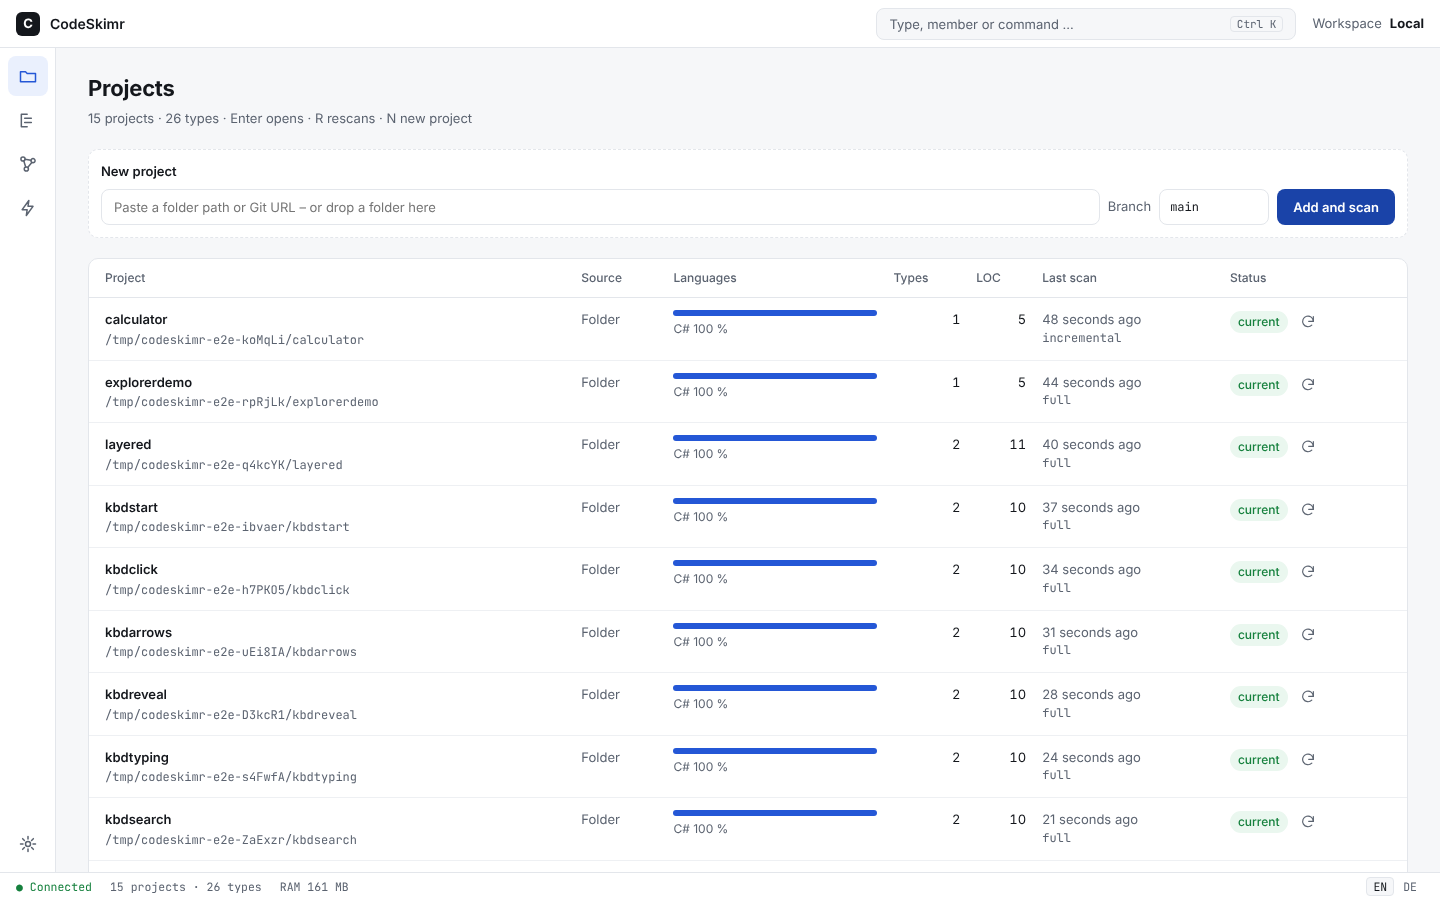
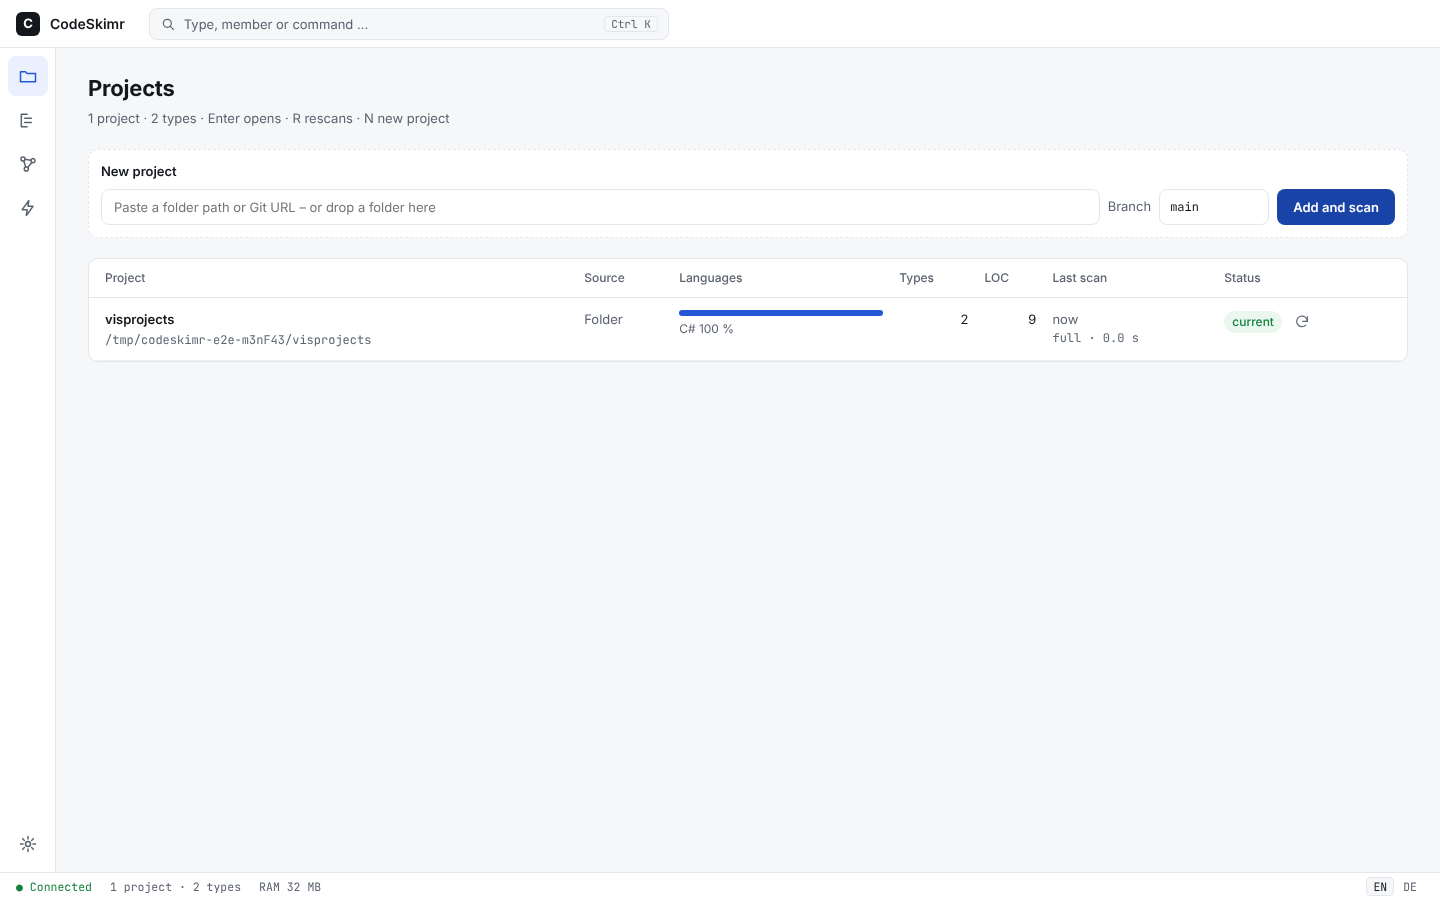
fix: Kopfleiste mit Projekt-Breadcrumb, Branch-Chip und Suchfeld wie im Mock (#194)
<!-- claude-projects-attribution: {"github_login":"stacknoise"} -->
_Requested by **Anton** · [project
thread](https://claude.ai/code/project/chan_01BurfeyeHWcU615RsoB5poQ?thread=cmsg_01BurfeyeHWcU615RsoB5poQLRyBR7cRC2JCzmYBjFR1NA)_

## Was ändert sich und warum?

Closes #167 (Kopfleiste). Die Kopfleiste entspricht jetzt dem Mock:

- Nach Logo und Produktname steht, sobald ein Projekt offen ist, ein
Schrägstrich und der Projektname (Link zur Projektübersicht), dann ein
Chip mit Branch-Symbol: bei einer Git-Quelle der Branch, bei einem
Ordner „Arbeitsordner", jeweils mit dem Alter des letzten Scans („vor 1
Sekunde").
- Das Suchfeld sitzt links neben dem Chip, hat ein Lupensymbol und ist
wie im Mock höchstens 520 px breit.
- „Arbeitsbereich Lokal" rechts entfällt. Der HTML-Export nutzt dieselbe
Leiste mit Projektname (ohne Chip).
- Test `ProjectCrumb.test.tsx`; die Visual- und Tastaturtests (alle 34
e2e) laufen grün, die Screenshots in `docs/screenshots/visual/` sind neu
erzeugt. `docs/ui.md` beschreibt die Leiste.
- **Nicht in diesem PR:** Der zweite Teil von #167 (Statusleiste mit
Beobachtungsstatus, Referenz-Index, letzter Abfrage) braucht neue
Messwerte vom Server. Dafür gibt es das Folge-Issue #193.

## So probierst du es aus

```
cd web && npm ci && npx vite build
npm run lint && npm test
CODESKIMR_CHROMIUM=<Chromium> npm run e2e
```

## Screenshots (bei UI-Änderungen, mit Mock-Vergleich)

`docs/screenshots/visual/` (alle Hell, 1440 × 900); Beispiel:
[…]

diff --git a/web/src/app/Frame.tsx b/web/src/app/Frame.tsx
@@ -1,9 +1,10 @@
+import { Show, type JSX } from "solid-js";
 import { SearchField } from "../features/search/SearchField";
 import { t } from "../shared/i18n/i18n";
 import { I18N_KEYS } from "../shared/i18n/keys";
 import { cx } from "../shared/ui/cx";
 import { Icon } from "../shared/ui/Icon";
-import { CURRENT_PAGE, LOGO_LETTER, type Route } from "./consts";
+import { BREADCRUMB_SLASH, CURRENT_PAGE, LOGO_LETTER, type Route } from "./consts";
 import styles from "./App.module.css";
 import { currentPath, hrefOf, navigate } from "./router";
 
@@ -25,19 +26,43 @@ export function RailLink(props: { route: Route }) {
   );
 }
 
-/** The top bar of every screen: name, quick search and the workspace (blueprint 15.2). */
-export function TopBar(props: { workspace: string; name: string }) {
+/** The top bar of every screen: name, what the screen belongs to (`children`, see `Crumb`) and
+ * the quick search (blueprint 15.2). */
+export function TopBar(props: { children?: JSX.Element }) {
   return (
     <header class={styles.top}>
       <div class={styles.brand}>
         <span class={styles.logo}>{LOGO_LETTER}</span>
         <span class={styles.name}>{t(I18N_KEYS.APP_NAME)}</span>
       </div>
+      {props.children}
       <SearchField />
-      <div class={styles.workspace}>
-        <span>{props.workspace}</span>
-        <b>{props.name}</b>
-      </div>
     </header>
+  );
+}
+
+/** The project in the top bar: a slash and the name, a link to the projects when `href` is
+ * given. */
+export function Crumb(props: { name: string; href?: string }) {
+  return (
+    <>
+      <span class={styles.slash} aria-hidden={true}>
+        {BREADCRUMB_SLASH}
+      </span>
+      <Show when={props.href} fallback={<b class={styles.crumb}>{props.name}</b>}>
+        {(href) => (
+          <a
+            class={styles.crumb}
+            href={hrefOf(href())}
+            onClick={(event) => {
+              event.preventDefault();
+              navigate(href());
+            }}
+          >
+            {props.name}
+          </a>
+        )}
+      </Show>
+    </>
   );
 }

diff --git a/web/src/app/ProjectCrumb.test.tsx b/web/src/app/ProjectCrumb.test.tsx
@@ -1,0 +1,65 @@
+import { render, screen } from "@solidjs/testing-library";
+import { describe, expect, it } from "vitest";
+import { refreshProjects } from "../features/projects/projects";
+import type { ProjectRow } from "../features/projects/types";
+import { SESSION_PATH } from "../shared/api/consts";
+import { setLanguage } from "../shared/i18n/i18n";
+import { openProject } from "../shared/project/active";
+import { startSession } from "../shared/session/session";
+import { answer, serve, useServerSession } from "../tests/commands";
+import { TopBar } from "./Frame";
+import { ProjectCrumb } from "./ProjectCrumb";
+
+const FOLDER: ProjectRow = {
+  id: 7,
+  name: "shop",
+  kind: "folder",
+  location: "/work/shop",
+  branch: null,
+  commit: null,
+  scan: null,
+  types: 0,
+  loc: 0,
+  languages: [],
+  running: false,
+};
+const GIT: ProjectRow = {
+  ...FOLDER,
+  id: 8,
+  name: "api",
+  kind: "git",
+  branch: "release/2",
+};
+
+useServerSession();
+
+async function shown(id: number) {
+  serve({
+    [SESSION_PATH]: () => answer({}),
+    "projects.list": () => answer([FOLDER, GIT]),
+  });
+  await startSession();
+  await refreshProjects();
+  openProject(id);
+  return render(() => (
+    <TopBar>
+      <ProjectCrumb />
+    </TopBar>
+  ));
+}
+
+describe("ProjectCrumb", () => {
+  it("names the project and the working folder of a folder source", async () => {
+    setLanguage("en");
+    await shown(7);
+    expect(screen.getByRole("link", { name: "shop" })).toHaveAttribute("href", "/");
+    expect(screen.getByText("Working folder")).toBeInTheDocument();
+  });
+
+  it("names the branch of a Git source", async () => {
+    setLanguage("en");
+    await shown(8);
+    expect(screen.getByRole("link", { name: "api" })).toBeInTheDocument();
+    expect(screen.getByText("release/2")).toBeInTheDocument();
+  });
+});

diff --git a/web/src/app/ProjectCrumb.tsx b/web/src/app/ProjectCrumb.tsx
@@ -1,0 +1,44 @@
+import { Show } from "solid-js";
+import { currentLanguage, t } from "../shared/i18n/i18n";
+import { I18N_KEYS } from "../shared/i18n/keys";
+import { activeProject } from "../shared/project/active";
+import { ICON_BRANCH, ICON_SIZE_SMALL } from "../shared/ui/consts";
+import { Icon } from "../shared/ui/Icon";
+import { ago } from "../features/projects/format";
+import { SOURCE_KIND } from "../features/projects/consts";
+import { projects } from "../features/projects/projects";
+import type { ProjectRow } from "../features/projects/types";
+import { CHIP_SEPARATOR, PROJECTS_ROUTE } from "./consts";
+import { Crumb } from "./Frame";
+import styles from "./App.module.css";
+
+/** What the chip says: the branch of a Git source, or the working folder, and how old the
+ * newest scan is. */
+function chipText(project: ProjectRow): string {
+  const source =
+    project.kind === SOURCE_KIND.git && project.branch
+      ? project.branch
+      : t(I18N_KEYS.APP_CHIP_FOLDER);
+  return project.scan
+    ? `${source}${CHIP_SEPARATOR}${ago(project.scan.created, Date.now(), currentLanguage())}`
+    : source;
+}
+
+/** The project that the screens work on, as the top bar shows it: breadcrumb and chip
+ * (blueprint 15.2). Nothing is shown until a project is open. */
+export function ProjectCrumb() {
+  const project = () => projects().find((row) => row.id === activeProject());
+  return (
+    <Show when={project()}>
+      {(row) => (
+        <>
+          <Crumb name={row().name} href={PROJECTS_ROUTE.path} />
+          <span class={styles.chip}>
+            <Icon name={ICON_BRANCH} size={ICON_SIZE_SMALL} />
+            {chipText(row())}
+          </span>
+        </>
+      )}
+    </Show>
+  );
+}

diff --git a/web/src/shared/ui/consts.ts b/web/src/shared/ui/consts.ts
@@ -1,6 +1,12 @@
 /** Drawing of an icon: a 24 by 24 grid, strokes only (blueprint 15.2). */
 export const ICON_VIEW_BOX = "0 0 24 24";
 export const ICON_SIZE = 20;
+/** Icons that the top bar names. */
+export const ICON_SEARCH = "search";
+export const ICON_BRANCH = "branch";
+/** Sizes of the small icons of the top bar. */
+export const ICON_SIZE_SMALL = 13;
+export const ICON_SIZE_MEDIUM = 16;
 export const ICON_STROKE = "currentColor";
 export const ICON_STROKE_WIDTH = 1.8;
 export const ICON_NONE = "none";
@@ -20,6 +26,13 @@ export const ICON_PATHS = {
     "M8.4 6.4l7.2 1.2M7 8.3l2.2 7.4M16.6 10.2l-5 6",
   ],
   scan: ["M13 3L5 14h6l-1 7 8-11h-6z"],
+  search: ["M11 5a6 6 0 1 0 0 12 6 6 0 0 0 0-12z", "M20 20l-4.5-4.5"],
+  branch: [
+    "M4 5a2 2 0 1 0 4 0 2 2 0 1 0-4 0",
+    "M4 19a2 2 0 1 0 4 0 2 2 0 1 0-4 0",
+    "M16 7a2 2 0 1 0 4 0 2 2 0 1 0-4 0",
+    "M6 7v10M18 9c0 5-12 3-12 8",
+  ],
   settings: [
     "M12 9a3 3 0 1 0 0 6 3 3 0 0 0 0-6z",
     "M12 3v3M12 18v3M3 12h3M18 12h3M5.6 5.6l2.1 2.1M16.3 16.3l2.1 2.1M18.4 5.6l-2.1 2.1M7.7 16.3l-2.1 2.1",

diff --git a/web/src/export/ExportApp.tsx b/web/src/export/ExportApp.tsx
@@ -11,7 +11,7 @@ import { cx } from "../shared/ui/cx";
 import { EXPLORER_ROUTE, FLUSH_PATHS, GRAPH_ROUTE, USAGES_ROUTE, type Route } from "../app/consts";
 import appStyles from "../app/App.module.css";
 import { BANNER_SEPARATOR, MS_PER_SECOND, SHORT_COMMIT } from "./consts";
-import { RailLink, TopBar } from "../app/Frame";
+import { Crumb, RailLink, TopBar } from "../app/Frame";
 import { currentPath } from "./router";
 import type { ExportData } from "./types";
 import styles from "./ExportApp.module.css";
@@ -74,7 +74,9 @@ export function ExportApp(props: { data: ExportData }) {
   useSearchShortcut(openSearch);
   return (
     <div class={appStyles.root}>
-      <TopBar workspace={t(I18N_KEYS.EXPORT_NAV_LABEL)} name={props.data.project.name} />
+      <TopBar>
+        <Crumb name={props.data.project.name} />
+      </TopBar>
       <Banner data={props.data} />
       <div class={appStyles.body}>
         <nav class={appStyles.rail} aria-label={t(I18N_KEYS.NAV_LABEL)}>

diff --git a/web/src/features/search/SearchField.tsx b/web/src/features/search/SearchField.tsx
@@ -1,5 +1,7 @@
 import { t } from "../../shared/i18n/i18n";
 import { I18N_KEYS } from "../../shared/i18n/keys";
+import { ICON_SEARCH, ICON_SIZE_MEDIUM } from "../../shared/ui/consts";
+import { Icon } from "../../shared/ui/Icon";
 import { openSearch } from "./search";
 import styles from "./SearchField.module.css";
 
@@ -7,7 +9,8 @@ import styles from "./SearchField.module.css";
 export function SearchField() {
   return (
     <button type="button" class={styles.search} onClick={openSearch}>
-      <span>{t(I18N_KEYS.APP_SEARCH_PLACEHOLDER)}</span>
+      <Icon name={ICON_SEARCH} size={ICON_SIZE_MEDIUM} />
+      <span class={styles.hint}>{t(I18N_KEYS.APP_SEARCH_PLACEHOLDER)}</span>
       <kbd>{t(I18N_KEYS.APP_SEARCH_SHORTCUT)}</kbd>
     </button>
   );

diff --git a/web/src/app/App.tsx b/web/src/app/App.tsx
@@ -28,6 +28,7 @@ import {
 } from "./consts";
 import styles from "./App.module.css";
 import { RailLink, TopBar } from "./Frame";
+import { ProjectCrumb } from "./ProjectCrumb";
 import { currentPath } from "./router";
 
 /** The screen of the current path. */
@@ -63,7 +64,9 @@ export function App() {
   });
   return (
     <div class={styles.root}>
-      <TopBar workspace={t(I18N_KEYS.APP_WORKSPACE)} name={t(I18N_KEYS.APP_WORKSPACE_LOCAL)} />
+      <TopBar>
+        <ProjectCrumb />
+      </TopBar>
       <div class={styles.body}>
         <nav class={styles.rail} aria-label={t(I18N_KEYS.NAV_LABEL)}>
           <For each={MAIN_ROUTES}>{(route) => <RailLink route={route} />}</For>

diff --git a/web/src/features/search/SearchField.module.css b/web/src/features/search/SearchField.module.css
@@ -1,12 +1,12 @@
 .search {
-    margin-left: auto;
-    flex: 0 1 420px;
+    margin-left: var(--space-8);
+    flex: 1 1 280px;
+    max-width: 520px;
     height: 32px;
     display: flex;
     align-items: center;
-    justify-content: space-between;
     gap: var(--space-8);
-    padding: 0 var(--space-12);
+    padding: 0 var(--space-10);
     border: 1px solid var(--line);
     border-radius: var(--radius-card);
     background: var(--bg);
@@ -20,4 +20,9 @@
     border: 1px solid var(--line);
     border-radius: var(--radius-badge);
     padding: 0 var(--space-6);
+}
+
+.hint {
+    flex: 1;
+    text-align: left;
 }

diff --git a/web/src/shared/ui/Icon.tsx b/web/src/shared/ui/Icon.tsx
@@ -14,11 +14,11 @@ export type IconName = keyof typeof ICON_PATHS;
 
 /** An icon of the rail. It is decoration: the text next to it, or the label of its button,
  * carries the meaning. */
-export function Icon(props: { name: IconName }) {
+export function Icon(props: { name: IconName; size?: number }) {
   return (
     <svg
-      width={ICON_SIZE}
-      height={ICON_SIZE}
+      width={props.size ?? ICON_SIZE}
+      height={props.size ?? ICON_SIZE}
       viewBox={ICON_VIEW_BOX}
       fill={ICON_NONE}
       stroke={ICON_STROKE}

diff --git a/web/src/app/App.module.css b/web/src/app/App.module.css
@@ -39,14 +39,24 @@
     font-size: 14px;
 }
 
-.workspace {
-    display: flex;
-    gap: var(--space-8);
-    color: var(--muted);
+.slash {
+    color: var(--line-strong);
 }
 
-.workspace b {
+.crumb {
     color: var(--ink);
+    font-weight: 600;
+}
+
+.chip {
+    display: inline-flex;
+    align-items: center;
+    gap: var(--space-6);
+    font: 12px var(--font-mono);
+    color: var(--muted);
+    border: 1px solid var(--line);
+    border-radius: var(--radius-badge);
+    padding: 3px var(--space-8);
 }
 
 .body {

diff --git a/web/src/app/consts.ts b/web/src/app/consts.ts
@@ -36,6 +36,12 @@ export const FOOTER_ROUTES: Route[] = [SETTINGS_ROUTE];
 /** Logo letter of the top bar. */
 export const LOGO_LETTER = "C";
 
+/** Separates the product name from the project in the top bar. */
+export const BREADCRUMB_SLASH = "/";
+
+/** Separates the parts of the chip next to the project name. */
+export const CHIP_SEPARATOR = " · ";
+
 /** Event of the browser when the user goes back or forward. */
 export const POPSTATE_EVENT = "popstate";
 

diff --git a/web/src/shared/i18n/keys.ts b/web/src/shared/i18n/keys.ts
@@ -7,6 +7,7 @@ export const I18N_KEYS = {
   APP_WORKSPACE_LOCAL: "app-workspace-local",
   APP_SEARCH_PLACEHOLDER: "app-search-placeholder",
   APP_SEARCH_SHORTCUT: "app-search-shortcut",
+  APP_CHIP_FOLDER: "app-chip-folder",
   APP_WATCHING: "app-watching",
   APP_SAMPLE_DATA: "app-sample-data",
   APP_LANGUAGE: "app-language",
